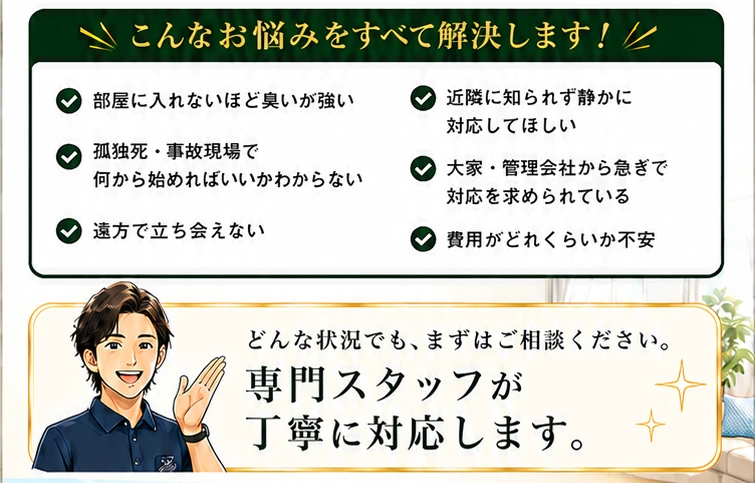
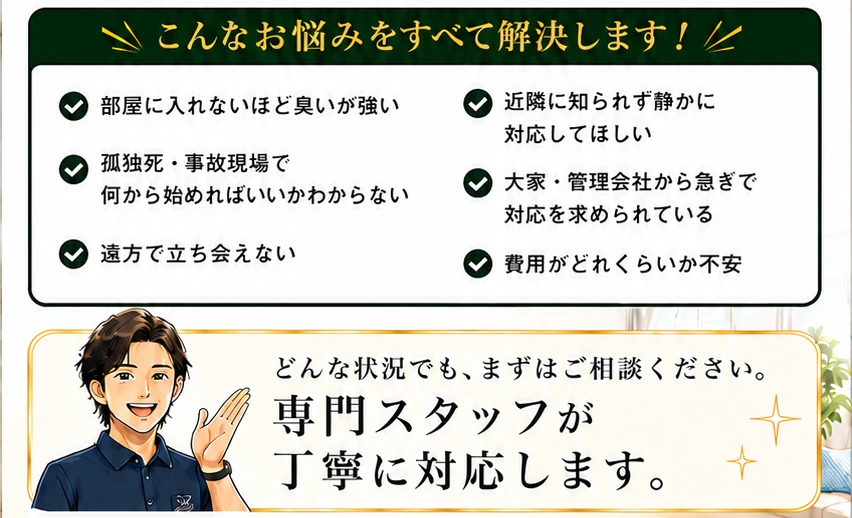
feat(kv): update real-photo KV to latest version (852x1846 source)
- re-slice kv_top(0-890)/kv_bottom(1126-1644); manga heading band excluded; badges intact
- dims 852x890 / 852x518; anime KV still preserved as *_anime.webp for A/B

Changed region(s): [[0.0, 0.0, 1.0, 1.0], [0.5483, 0.3106, 0.8834, 0.4348]]

diff --git a/components/mcy/McyFv.tsx b/components/mcy/McyFv.tsx
@@ -40,8 +40,8 @@ export default function McyFv() {
         <img
           src="/img/kv_top.webp"
           alt="特殊清掃・遺品整理 セレンシア。東京・神奈川 全域対応。孤独死・事故現場の特殊清掃専門。臭い・体液汚染を最短即日で現地確認。代表 太田が対応。相談・見積り無料（24時間受付・年中無休）／追加料金なし／立ち会い不要／近隣配慮・秘密厳守。"
-          width={755}
-          height={885}
+          width={852}
+          height={890}
           loading="eager"
           decoding="async"
           fetchPriority="high"
@@ -176,8 +176,8 @@ export default function McyFv() {
         <img
           src="/img/kv_bottom.webp"
           alt="こんなお悩みをすべて解決します。部屋に入れないほど臭いが強い、近隣に知られず静かに対応してほしい、孤独死・事故現場で何から始めればいいか分からない、大家・管理会社から急ぎで対応を求められている、遠方で立ち会えない、費用がどれくらいか不安。どんな状況でも、まずはご相談ください。専門スタッフが丁寧に対応します。"
-          width={755}
-          height={483}
+          width={852}
+          height={518}
           loading="lazy"
           decoding="async"
           className="block w-full"
